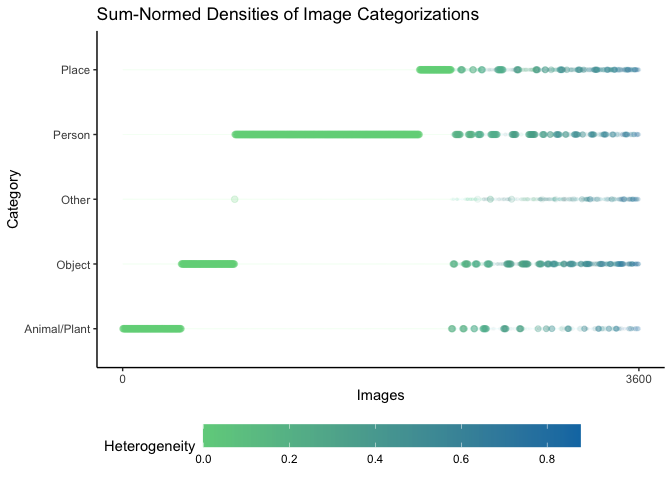
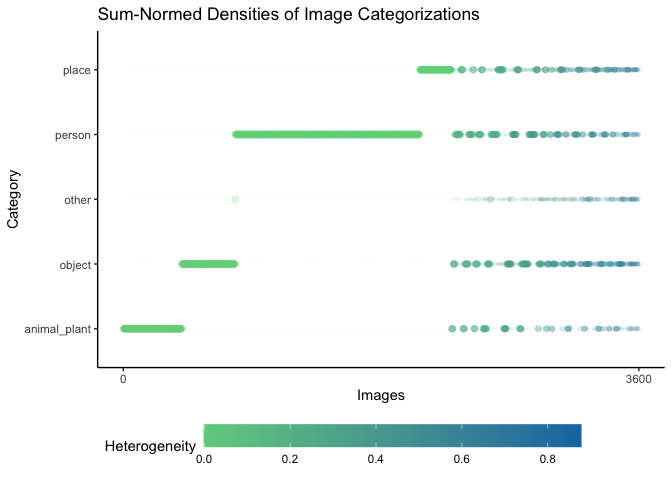
make category label lowercase compatible

diff --git a/categorizations.md b/categorizations.md
@@ -94,14 +94,14 @@ knitr::kable(
 )
 ```
 
-| image\_id                  |  Person|  Animal/Plant|  Object|  Place|  Other|  n\_ratings|  max\_rating|  rel\_max\_rating|  htg\_index|
-|:---------------------------|-------:|-------------:|-------:|------:|------:|-----------:|------------:|-----------------:|-----------:|
-| OASIS\_snake\_5.jpg        |       0|             6|       0|      0|      0|           6|            6|              1.00|        0.00|
-| OASIS\_stingray\_3.jpg     |       0|             6|       0|      0|      0|           6|            6|              1.00|        0.00|
-| OASIS\_thunderstorm\_9.jpg |       0|             0|       1|      4|      1|           6|            4|              0.67|        0.56|
-| OASIS\_tiger\_2.jpg        |       0|             5|       1|      0|      0|           6|            5|              0.83|        0.31|
-| OASIS\_toast\_1.jpg        |       0|             0|       6|      0|      0|           6|            6|              1.00|        0.00|
-| OASIS\_wall\_4.jpg         |       0|             0|       1|      3|      2|           6|            3|              0.50|        0.67|
+| image\_id                  |  person|  animal\_plant|  object|  place|  other|  n\_ratings|  max\_rating|  rel\_max\_rating|  htg\_index|
+|:---------------------------|-------:|--------------:|-------:|------:|------:|-----------:|------------:|-----------------:|-----------:|
+| OASIS\_snake\_5.jpg        |       0|              6|       0|      0|      0|           6|            6|              1.00|        0.00|
+| OASIS\_stingray\_3.jpg     |       0|              6|       0|      0|      0|           6|            6|              1.00|        0.00|
+| OASIS\_thunderstorm\_9.jpg |       0|              0|       1|      4|      1|           6|            4|              0.67|        0.56|
+| OASIS\_tiger\_2.jpg        |       0|              5|       1|      0|      0|           6|            5|              0.83|        0.31|
+| OASIS\_toast\_1.jpg        |       0|              0|       6|      0|      0|           6|            6|              1.00|        0.00|
+| OASIS\_wall\_4.jpg         |       0|              0|       1|      3|      2|           6|            3|              0.50|        0.67|
 
 Threshold-based Categorization
 ------------------------------
@@ -117,7 +117,7 @@ choose_category_max_threshold <- function(ratings) {
   # count number of ratings equal to maximum rating
   n_max <- length(which(ratings == max(ratings)))
   if (n_max > 1) {
-    return("Other")
+    return("other")
   } else {
     return(names(ratings)[which.max(ratings)])
   }
@@ -182,14 +182,14 @@ knitr::kable(
 )
 ```
 
-| image\_id      |  Person|  Animal/Plant|  Object|  Place|  Other|  Person\_is\_max|  Animal/Plant\_is\_max|  Object\_is\_max|  Place\_is\_max|  Other\_is\_max|  n\_ratings|  max\_rating|  rel\_max\_rating|  htg\_index| category\_max | category\_ties |
-|:---------------|-------:|-------------:|-------:|------:|------:|----------------:|----------------------:|----------------:|---------------:|---------------:|-----------:|------------:|-----------------:|-----------:|:--------------|:---------------|
-| IAPS\_1033.jpg |       0|             6|       0|      0|      0|                0|                      1|                0|               0|               0|           6|            6|                 1|           0| Animal/Plant  | Animal/Plant   |
-| IAPS\_1310.jpg |       0|             7|       0|      0|      0|                0|                      1|                0|               0|               0|           7|            7|                 1|           0| Animal/Plant  | Animal/Plant   |
-| IAPS\_1390.jpg |       0|             7|       0|      0|      0|                0|                      1|                0|               0|               0|           7|            7|                 1|           0| Animal/Plant  | Animal/Plant   |
-| IAPS\_1617.jpg |       0|             7|       0|      0|      0|                0|                      1|                0|               0|               0|           7|            7|                 1|           0| Animal/Plant  | Animal/Plant   |
-| IAPS\_1660.jpg |       0|             7|       0|      0|      0|                0|                      1|                0|               0|               0|           7|            7|                 1|           0| Animal/Plant  | Animal/Plant   |
-| IAPS\_1750.jpg |       0|             7|       0|      0|      0|                0|                      1|                0|               0|               0|           7|            7|                 1|           0| Animal/Plant  | Animal/Plant   |
+| image\_id      |  person|  animal\_plant|  object|  place|  other|  person\_is\_max|  animal\_plant\_is\_max|  object\_is\_max|  place\_is\_max|  other\_is\_max|  n\_ratings|  max\_rating|  rel\_max\_rating|  htg\_index| category\_max | category\_ties |
+|:---------------|-------:|--------------:|-------:|------:|------:|----------------:|-----------------------:|----------------:|---------------:|---------------:|-----------:|------------:|-----------------:|-----------:|:--------------|:---------------|
+| IAPS\_1033.jpg |       0|              6|       0|      0|      0|                0|                       1|                0|               0|               0|           6|            6|                 1|           0| animal\_plant | animal\_plant  |
+| IAPS\_1310.jpg |       0|              7|       0|      0|      0|                0|                       1|                0|               0|               0|           7|            7|                 1|           0| animal\_plant | animal\_plant  |
+| IAPS\_1390.jpg |       0|              7|       0|      0|      0|                0|                       1|                0|               0|               0|           7|            7|                 1|           0| animal\_plant | animal\_plant  |
+| IAPS\_1617.jpg |       0|              7|       0|      0|      0|                0|                       1|                0|               0|               0|           7|            7|                 1|           0| animal\_plant | animal\_plant  |
+| IAPS\_1660.jpg |       0|              7|       0|      0|      0|                0|                       1|                0|               0|               0|           7|            7|                 1|           0| animal\_plant | animal\_plant  |
+| IAPS\_1750.jpg |       0|              7|       0|      0|      0|                0|                       1|                0|               0|               0|           7|            7|                 1|           0| animal\_plant | animal\_plant  |
 
 ### Plot Harsh Categories
 
@@ -243,14 +243,14 @@ knitr::kable(
 )
 ```
 
-| image\_id      |  Person|  Animal/Plant|  Object|  Place|  Other|  Person\_is\_max|  Animal/Plant\_is\_max|  Object\_is\_max|  Place\_is\_max|  Other\_is\_max|  rel\_max\_rating|  htg\_index| category\_max | category\_ties |
-|:---------------|-------:|-------------:|-------:|------:|------:|----------------:|----------------------:|----------------:|---------------:|---------------:|-----------------:|-----------:|:--------------|:---------------|
-| IAPS\_1033.jpg |       0|             1|       0|      0|      0|                0|                      1|                0|               0|               0|                 1|           0| Animal/Plant  | Animal/Plant   |
-| IAPS\_1310.jpg |       0|             1|       0|      0|      0|                0|                      1|                0|               0|               0|                 1|           0| Animal/Plant  | Animal/Plant   |
-| IAPS\_1390.jpg |       0|             1|       0|      0|      0|                0|                      1|                0|               0|               0|                 1|           0| Animal/Plant  | Animal/Plant   |
-| IAPS\_1617.jpg |       0|             1|       0|      0|      0|                0|                      1|                0|               0|               0|                 1|           0| Animal/Plant  | Animal/Plant   |
-| IAPS\_1660.jpg |       0|             1|       0|      0|      0|                0|                      1|                0|               0|               0|                 1|           0| Animal/Plant  | Animal/Plant   |
-| IAPS\_1750.jpg |       0|             1|       0|      0|      0|                0|                      1|                0|               0|               0|                 1|           0| Animal/Plant  | Animal/Plant   |
+| image\_id      |  person|  animal\_plant|  object|  place|  other|  person\_is\_max|  animal\_plant\_is\_max|  object\_is\_max|  place\_is\_max|  other\_is\_max|  rel\_max\_rating|  htg\_index| category\_max | category\_ties |
+|:---------------|-------:|--------------:|-------:|------:|------:|----------------:|-----------------------:|----------------:|---------------:|---------------:|-----------------:|-----------:|:--------------|:---------------|
+| IAPS\_1033.jpg |       0|              1|       0|      0|      0|                0|                       1|                0|               0|               0|                 1|           0| animal\_plant | animal\_plant  |
+| IAPS\_1310.jpg |       0|              1|       0|      0|      0|                0|                       1|                0|               0|               0|                 1|           0| animal\_plant | animal\_plant  |
+| IAPS\_1390.jpg |       0|              1|       0|      0|      0|                0|                       1|                0|               0|               0|                 1|           0| animal\_plant | animal\_plant  |
+| IAPS\_1617.jpg |       0|              1|       0|      0|      0|                0|                       1|                0|               0|               0|                 1|           0| animal\_plant | animal\_plant  |
+| IAPS\_1660.jpg |       0|              1|       0|      0|      0|                0|                       1|                0|               0|               0|                 1|           0| animal\_plant | animal\_plant  |
+| IAPS\_1750.jpg |       0|              1|       0|      0|      0|                0|                       1|                0|               0|               0|                 1|           0| animal\_plant | animal\_plant  |
 
 ### Pivot Sum-Normed Categories to Longer
 
@@ -335,36 +335,9 @@ Alphabetize categories and combine sum-normed categorizations with harsh
 threshold categorizations.
 
 ``` r
-normed_category_df
-```
-
-    ## # A tibble: 3,600 x 15
-    ##    image_id Person `Animal/Plant` Object Place Other Person_is_max
-    ##    <chr>     <dbl>          <dbl>  <dbl> <dbl> <dbl>         <int>
-    ##  1 IAPS_10…      0              1      0     0     0             0
-    ##  2 IAPS_13…      0              1      0     0     0             0
-    ##  3 IAPS_13…      0              1      0     0     0             0
-    ##  4 IAPS_16…      0              1      0     0     0             0
-    ##  5 IAPS_16…      0              1      0     0     0             0
-    ##  6 IAPS_17…      0              1      0     0     0             0
-    ##  7 IAPS_19…      0              1      0     0     0             0
-    ##  8 IAPS_20…      1              0      0     0     0             1
-    ##  9 IAPS_20…      1              0      0     0     0             1
-    ## 10 IAPS_20…      1              0      0     0     0             1
-    ## # … with 3,590 more rows, and 8 more variables: `Animal/Plant_is_max` <int>,
-    ## #   Object_is_max <int>, Place_is_max <int>, Other_is_max <int>,
-    ## #   rel_max_rating <dbl>, htg_index <dbl>, category_max <chr>,
-    ## #   category_ties <chr>
-
-``` r
 alphabetized_category_names <- sort(category_names)
 
 combined_categorization_df <- normed_category_df %>%
-  #dplyr::inner_join(category_df, by = "image_id") %>%
-  dplyr::mutate_at(
-    vars(category_max),
-    ~ as.factor(.x)
-  ) %>%
   dplyr::relocate(all_of(alphabetized_category_names))
 
 knitr::kable(
@@ -372,22 +345,21 @@ knitr::kable(
 )
 ```
 
-|  Animal/Plant|  Object|  Other|  Person|  Place| image\_id      |  Person\_is\_max|  Animal/Plant\_is\_max|  Object\_is\_max|  Place\_is\_max|  Other\_is\_max|  rel\_max\_rating|  htg\_index| category\_max | category\_ties |
-|-------------:|-------:|------:|-------:|------:|:---------------|----------------:|----------------------:|----------------:|---------------:|---------------:|-----------------:|-----------:|:--------------|:---------------|
-|             1|       0|      0|       0|      0| IAPS\_1033.jpg |                0|                      1|                0|               0|               0|                 1|           0| Animal/Plant  | Animal/Plant   |
-|             1|       0|      0|       0|      0| IAPS\_1310.jpg |                0|                      1|                0|               0|               0|                 1|           0| Animal/Plant  | Animal/Plant   |
-|             1|       0|      0|       0|      0| IAPS\_1390.jpg |                0|                      1|                0|               0|               0|                 1|           0| Animal/Plant  | Animal/Plant   |
-|             1|       0|      0|       0|      0| IAPS\_1617.jpg |                0|                      1|                0|               0|               0|                 1|           0| Animal/Plant  | Animal/Plant   |
-|             1|       0|      0|       0|      0| IAPS\_1660.jpg |                0|                      1|                0|               0|               0|                 1|           0| Animal/Plant  | Animal/Plant   |
-|             1|       0|      0|       0|      0| IAPS\_1750.jpg |                0|                      1|                0|               0|               0|                 1|           0| Animal/Plant  | Animal/Plant   |
+|  animal\_plant|  object|  other|  person|  place| image\_id      |  person\_is\_max|  animal\_plant\_is\_max|  object\_is\_max|  place\_is\_max|  other\_is\_max|  rel\_max\_rating|  htg\_index| category\_max | category\_ties |
+|--------------:|-------:|------:|-------:|------:|:---------------|----------------:|-----------------------:|----------------:|---------------:|---------------:|-----------------:|-----------:|:--------------|:---------------|
+|              1|       0|      0|       0|      0| IAPS\_1033.jpg |                0|                       1|                0|               0|               0|                 1|           0| animal\_plant | animal\_plant  |
+|              1|       0|      0|       0|      0| IAPS\_1310.jpg |                0|                       1|                0|               0|               0|                 1|           0| animal\_plant | animal\_plant  |
+|              1|       0|      0|       0|      0| IAPS\_1390.jpg |                0|                       1|                0|               0|               0|                 1|           0| animal\_plant | animal\_plant  |
+|              1|       0|      0|       0|      0| IAPS\_1617.jpg |                0|                       1|                0|               0|               0|                 1|           0| animal\_plant | animal\_plant  |
+|              1|       0|      0|       0|      0| IAPS\_1660.jpg |                0|                       1|                0|               0|               0|                 1|           0| animal\_plant | animal\_plant  |
+|              1|       0|      0|       0|      0| IAPS\_1750.jpg |                0|                       1|                0|               0|               0|                 1|           0| animal\_plant | animal\_plant  |
 
 ### Plot Categorizations by Parallel Coordinates
 
 ``` r
-parallel_coordinates_plotter <- function(.category = "Person") { # "Person" default
-  combined_categorization_df$alpha <- c(0.01, .1)[
-      1 + (alphabetized_category_names %in% .category)
-    ][combined_categorization_df$category_max]
+parallel_coordinates_plotter <- function(.category = "person") { # "person" default
+  
+  combined_categorization_df$alpha <- c(0.01, .1)[1 + (combined_categorization_df$category_max %in% .category)]
   
   combined_categorization_df$size <- c(0.1)[combined_categorization_df$category_max]
   
@@ -399,7 +371,7 @@ parallel_coordinates_plotter <- function(.category = "Person") { # "Person" defa
       data = combined_categorization_df,
       columns = alphabetized_category_names,
       groupColumn = "category_max",
-      order = 1:(length(alphabetized_category_names) + 1),
+      order = 1:(length(alphabetized_category_names)),
       scale = "globalminmax",
       showPoints = FALSE,
       alphaLines = "alpha"

diff --git a/master_table.md b/master_table.md
@@ -48,16 +48,16 @@ categorizations_df <- readr::read_tsv(file.path(results_path, "categorizations.t
     ## Parsed with column specification:
     ## cols(
     ##   image_id = col_character(),
-    ##   `Animal/Plant` = col_double(),
-    ##   Object = col_double(),
-    ##   Other = col_double(),
-    ##   Person = col_double(),
-    ##   Place = col_double(),
-    ##   Person_is_max = col_double(),
-    ##   `Animal/Plant_is_max` = col_double(),
-    ##   Object_is_max = col_double(),
-    ##   Place_is_max = col_double(),
-    ##   Other_is_max = col_double(),
+    ##   animal_plant = col_double(),
+    ##   object = col_double(),
+    ##   other = col_double(),
+    ##   person = col_double(),
+    ##   place = col_double(),
+    ##   person_is_max = col_double(),
+    ##   animal_plant_is_max = col_double(),
+    ##   object_is_max = col_double(),
+    ##   place_is_max = col_double(),
+    ##   other_is_max = col_double(),
     ##   rel_max_rating = col_double(),
     ##   htg_index = col_double(),
     ##   category_max = col_character(),
@@ -90,10 +90,10 @@ knitr::kable(
 )
 ```
 
-| image\_id      |  Animal/Plant|  Object|  Other|  Person|  Place|  Person\_is\_max|  Animal/Plant\_is\_max|  Object\_is\_max|  Place\_is\_max|  Other\_is\_max|  rel\_max\_rating|  htg\_index| category\_max | category\_ties | db\_id |  arousal|  valence|  erotic|
-|:---------------|-------------:|-------:|------:|-------:|------:|----------------:|----------------------:|----------------:|---------------:|---------------:|-----------------:|-----------:|:--------------|:---------------|:-------|--------:|--------:|-------:|
-| IAPS\_1033.jpg |             1|       0|      0|       0|      0|                0|                      1|                0|               0|               0|                 1|           0| Animal/Plant  | Animal/Plant   | IAPS   |   0.2825|  -0.2825|       0|
-| IAPS\_1310.jpg |             1|       0|      0|       0|      0|                0|                      1|                0|               0|               0|                 1|           0| Animal/Plant  | Animal/Plant   | IAPS   |   0.2500|  -0.1000|       0|
-| IAPS\_1390.jpg |             1|       0|      0|       0|      0|                0|                      1|                0|               0|               0|                 1|           0| Animal/Plant  | Animal/Plant   | IAPS   |   0.0725|  -0.1250|       0|
-| IAPS\_1617.jpg |             1|       0|      0|       0|      0|                0|                      1|                0|               0|               0|                 1|           0| Animal/Plant  | Animal/Plant   | IAPS   |   0.0850|  -0.1925|       0|
-| IAPS\_1660.jpg |             1|       0|      0|       0|      0|                0|                      1|                0|               0|               0|                 1|           0| Animal/Plant  | Animal/Plant   | IAPS   |  -0.1075|   0.3725|       0|
+| image\_id      |  animal\_plant|  object|  other|  person|  place|  person\_is\_max|  animal\_plant\_is\_max|  object\_is\_max|  place\_is\_max|  other\_is\_max|  rel\_max\_rating|  htg\_index| category\_max | category\_ties | db\_id |  arousal|  valence|  erotic|
+|:---------------|--------------:|-------:|------:|-------:|------:|----------------:|-----------------------:|----------------:|---------------:|---------------:|-----------------:|-----------:|:--------------|:---------------|:-------|--------:|--------:|-------:|
+| IAPS\_1033.jpg |              1|       0|      0|       0|      0|                0|                       1|                0|               0|               0|                 1|           0| animal\_plant | animal\_plant  | IAPS   |   0.2825|  -0.2825|       0|
+| IAPS\_1310.jpg |              1|       0|      0|       0|      0|                0|                       1|                0|               0|               0|                 1|           0| animal\_plant | animal\_plant  | IAPS   |   0.2500|  -0.1000|       0|
+| IAPS\_1390.jpg |              1|       0|      0|       0|      0|                0|                       1|                0|               0|               0|                 1|           0| animal\_plant | animal\_plant  | IAPS   |   0.0725|  -0.1250|       0|
+| IAPS\_1617.jpg |              1|       0|      0|       0|      0|                0|                       1|                0|               0|               0|                 1|           0| animal\_plant | animal\_plant  | IAPS   |   0.0850|  -0.1925|       0|
+| IAPS\_1660.jpg |              1|       0|      0|       0|      0|                0|                       1|                0|               0|               0|                 1|           0| animal\_plant | animal\_plant  | IAPS   |  -0.1075|   0.3725|       0|
